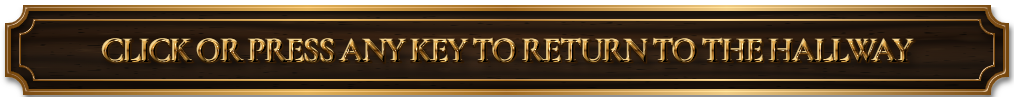
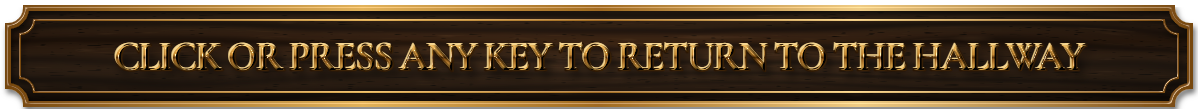
Hallway: the card, mark and plates exported at exactly the sizes they're shown, with 2x copies, so the browser never rescales them (his: lettering looked distorted); the way-out plate's capitals larger; the menu button clear of the card's inner border; changing the time of day by hand crossfades int

diff --git a/assets/hallway/app/play.css b/assets/hallway/app/play.css
@@ -9,11 +9,11 @@ html, body { background: #000; overflow: hidden; }
 /* The controls: nothing but the site's buttons, floating on the hallway */
 /* the controls' wooden card, top left (9 Nov 2026, his): the Hallway's mark at its head, then a labelled row each; the frame and wood as the
    branding mock-ups, dark brown lit from the middle with a thin gold rule inside the edge */
-#playBar { position: fixed; top: 10px; left: 10px; z-index: 30; display: flex; flex-direction: column; gap: 7px; width: 220px; padding: 24px 22px 26px; box-sizing: border-box;
+#playBar { position: fixed; top: 10px; left: 10px; z-index: 30; display: flex; flex-direction: column; gap: 7px; width: 220px; padding: 22px 22px 34px; box-sizing: border-box;
     /* the oak card with its brass borders (assets/img/hallway-card, drawn near this size so its grain isn't stretched), as a 9-slice: its corners stay
        as drawn, the rest fits whatever the card's height comes to */
     border: 1px solid transparent; border-image: url('/assets/img/hallway-card@2x.png') 88 fill / 44px stretch; filter: drop-shadow(0 8px 16px rgba(0, 0, 0, .6)); }
-#playBar .hw-card-logo { display: block; width: 100%; height: auto; margin: -2px 0 2px; pointer-events: none; user-select: none; }
+#playBar .hw-card-logo { display: block; width: 176px; height: auto; margin: -2px 0 2px; pointer-events: none; user-select: none; }
 #playBar .play-row { display: flex; align-items: center; gap: 8px; }
 #playBar .play-label { flex: 0 0 44px; color: #d9ad5e; text-shadow: 0 1px 0 #000; font: 400 9px/14px 'Volter Goldfish', monospace; }
 #playBar .play-row .play-group { flex: 1; }
@@ -29,7 +29,7 @@ html, body { background: #000; overflow: hidden; }
 #playBar .play-group { gap: 1px; }
 /* the splash's own wooden card, the mark alone, above the window */
 #playPicker { flex-direction: column; align-items: center; }
-#playPicker .hw-logo-card { margin: auto 0 10px; width: min(400px, 100%); filter: drop-shadow(0 10px 22px rgba(0, 0, 0, .65)); }
+#playPicker .hw-logo-card { margin: auto 0 10px; width: 420px; max-width: 100%; filter: drop-shadow(0 10px 22px rgba(0, 0, 0, .65)); }
 #playPicker .hw-logo-card img { display: block; width: 100%; height: auto; pointer-events: none; user-select: none; }
 #playPicker .hw-logo-card + .mr-window { margin: 0 auto auto; }
 /* the bar in groups, each a strip of joined buttons (8 Nov 2026) */
@@ -160,9 +160,9 @@ body.hw-screensaver #playBar, body.hw-screensaver .play-menu { opacity: 0; point
 .hw-ss-hint { color: #c9b89a; font: 400 9px/14px 'Volter Goldfish Bold', 'Volter Goldfish', monospace; text-shadow: 1px 1px 0 #1a0d05; transform: scale(2); white-space: nowrap; }
 @media (max-width: 700px) { .hw-ss-title { transform: translate(-50%, -50%); } .hw-ss-name { transform: scale(2); margin: 8px 0 12px; } .hw-ss-hint { transform: none; } }
 /* the screensaver with the Hallway's card (9 Nov 2026, his), and under it the way out on a slim plate made to match */
-.hw-ss-card { display: block; width: min(440px, 62vw); height: auto; margin: 0 0 14px; filter: drop-shadow(0 14px 30px rgba(0, 0, 0, .7)); pointer-events: none; user-select: none; }
-.hw-ss-plate img { display: block; width: min(507px, 80vw); height: auto; filter: drop-shadow(0 8px 16px rgba(0, 0, 0, .65)); pointer-events: none; user-select: none; }
-@media (pointer: coarse) { .hw-ss-plate img { width: min(336px, 80vw); } }
+.hw-ss-card { display: block; width: 420px; max-width: 86vw; height: auto; margin: 0 0 14px; filter: drop-shadow(0 14px 30px rgba(0, 0, 0, .7)); pointer-events: none; user-select: none; }
+.hw-ss-plate img { display: block; width: 599px; max-width: 92vw; height: auto; filter: drop-shadow(0 8px 16px rgba(0, 0, 0, .65)); pointer-events: none; user-select: none; }
+@media (pointer: coarse) { .hw-ss-plate img { width: 393px; } }
 @media (max-width: 700px) { .hw-ss-card { width: min(300px, 80vw); margin-bottom: 10px; } }
 /* hustle's answers: one tidy column of equal buttons */
 .hw-replies.hw-replies-under { flex-direction: column; flex-wrap: nowrap; align-items: stretch; width: max-content; max-width: none; gap: 3px; }

diff --git a/tools/hallway-editor/play.css b/tools/hallway-editor/play.css
@@ -9,11 +9,11 @@ html, body { background: #000; overflow: hidden; }
 /* The controls: nothing but the site's buttons, floating on the hallway */
 /* the controls' wooden card, top left (9 Nov 2026, his): the Hallway's mark at its head, then a labelled row each; the frame and wood as the
    branding mock-ups, dark brown lit from the middle with a thin gold rule inside the edge */
-#playBar { position: fixed; top: 10px; left: 10px; z-index: 30; display: flex; flex-direction: column; gap: 7px; width: 220px; padding: 24px 22px 26px; box-sizing: border-box;
+#playBar { position: fixed; top: 10px; left: 10px; z-index: 30; display: flex; flex-direction: column; gap: 7px; width: 220px; padding: 22px 22px 34px; box-sizing: border-box;
     /* the oak card with its brass borders (assets/img/hallway-card, drawn near this size so its grain isn't stretched), as a 9-slice: its corners stay
        as drawn, the rest fits whatever the card's height comes to */
     border: 1px solid transparent; border-image: url('/assets/img/hallway-card@2x.png') 88 fill / 44px stretch; filter: drop-shadow(0 8px 16px rgba(0, 0, 0, .6)); }
-#playBar .hw-card-logo { display: block; width: 100%; height: auto; margin: -2px 0 2px; pointer-events: none; user-select: none; }
+#playBar .hw-card-logo { display: block; width: 176px; height: auto; margin: -2px 0 2px; pointer-events: none; user-select: none; }
 #playBar .play-row { display: flex; align-items: center; gap: 8px; }
 #playBar .play-label { flex: 0 0 44px; color: #d9ad5e; text-shadow: 0 1px 0 #000; font: 400 9px/14px 'Volter Goldfish', monospace; }
 #playBar .play-row .play-group { flex: 1; }
@@ -29,7 +29,7 @@ html, body { background: #000; overflow: hidden; }
 #playBar .play-group { gap: 1px; }
 /* the splash's own wooden card, the mark alone, above the window */
 #playPicker { flex-direction: column; align-items: center; }
-#playPicker .hw-logo-card { margin: auto 0 10px; width: min(400px, 100%); filter: drop-shadow(0 10px 22px rgba(0, 0, 0, .65)); }
+#playPicker .hw-logo-card { margin: auto 0 10px; width: 420px; max-width: 100%; filter: drop-shadow(0 10px 22px rgba(0, 0, 0, .65)); }
 #playPicker .hw-logo-card img { display: block; width: 100%; height: auto; pointer-events: none; user-select: none; }
 #playPicker .hw-logo-card + .mr-window { margin: 0 auto auto; }
 /* the bar in groups, each a strip of joined buttons (8 Nov 2026) */
@@ -160,9 +160,9 @@ body.hw-screensaver #playBar, body.hw-screensaver .play-menu { opacity: 0; point
 .hw-ss-hint { color: #c9b89a; font: 400 9px/14px 'Volter Goldfish Bold', 'Volter Goldfish', monospace; text-shadow: 1px 1px 0 #1a0d05; transform: scale(2); white-space: nowrap; }
 @media (max-width: 700px) { .hw-ss-title { transform: translate(-50%, -50%); } .hw-ss-name { transform: scale(2); margin: 8px 0 12px; } .hw-ss-hint { transform: none; } }
 /* the screensaver with the Hallway's card (9 Nov 2026, his), and under it the way out on a slim plate made to match */
-.hw-ss-card { display: block; width: min(440px, 62vw); height: auto; margin: 0 0 14px; filter: drop-shadow(0 14px 30px rgba(0, 0, 0, .7)); pointer-events: none; user-select: none; }
-.hw-ss-plate img { display: block; width: min(507px, 80vw); height: auto; filter: drop-shadow(0 8px 16px rgba(0, 0, 0, .65)); pointer-events: none; user-select: none; }
-@media (pointer: coarse) { .hw-ss-plate img { width: min(336px, 80vw); } }
+.hw-ss-card { display: block; width: 420px; max-width: 86vw; height: auto; margin: 0 0 14px; filter: drop-shadow(0 14px 30px rgba(0, 0, 0, .7)); pointer-events: none; user-select: none; }
+.hw-ss-plate img { display: block; width: 599px; max-width: 92vw; height: auto; filter: drop-shadow(0 8px 16px rgba(0, 0, 0, .65)); pointer-events: none; user-select: none; }
+@media (pointer: coarse) { .hw-ss-plate img { width: 393px; } }
 @media (max-width: 700px) { .hw-ss-card { width: min(300px, 80vw); margin-bottom: 10px; } }
 /* hustle's answers: one tidy column of equal buttons */
 .hw-replies.hw-replies-under { flex-direction: column; flex-wrap: nowrap; align-items: stretch; width: max-content; max-width: none; gap: 3px; }

diff --git a/assets/hallway/app/play.js b/assets/hallway/app/play.js
@@ -96,7 +96,7 @@
         /* the Hallway's mark on a wooden card of its own, above the window (9 Nov 2026, his: "in that wooden card thing you had it on in your mock ups") */
         const card = document.createElement("div"); card.className = "hw-logo-card";
         /* the whole card as one picture (his pick, 9 Nov 2026: dark oak, brass borders, the round rat crest, raised brass letters) */
-        const mark = document.createElement("img"); mark.src = "/assets/img/hallway-plaque@2x.png"; mark.alt = "Maze Rats Hallway"; mark.width = 560; mark.height = 330; mark.addEventListener("error", () => card.remove()); card.appendChild(mark);
+        const mark = document.createElement("img"); mark.src = "/assets/img/hallway-plaque-420.png"; mark.srcset = "/assets/img/hallway-plaque-420.png 1x, /assets/img/hallway-plaque-420@2x.png 2x"; mark.width = 420; mark.height = 248; mark.alt = "Maze Rats Hallway"; mark.addEventListener("error", () => card.remove()); card.appendChild(mark);
         form.append(row, say, guest, notes); frame.appendChild(form); win.append(tbar, frame); back.append(card, win); document.body.appendChild(back); input.focus();
         const done = () => { document.removeEventListener("keydown", keys, true); back.remove(); if (opener && opener.focus) opener.focus(); if (onDone) onDone(); };
         const keys = e => {
@@ -139,7 +139,7 @@
         /* A wooden card in the top left, the Hallway's mark at its head and a labelled row for each kind of thing (9 Nov 2026, his: "the menu buttons in
            a wooden card in the top left, with the logo text at the top of it ... clear, and maze rats hallway themed") */
         bar.className = "hw-card";
-        { const mark = document.createElement("img"); mark.className = "hw-card-logo"; mark.src = "/assets/img/hallway-logo@2x.png"; mark.alt = "Maze Rats Hallway"; mark.addEventListener("error", () => mark.remove()); bar.appendChild(mark); }
+        { const mark = document.createElement("img"); mark.className = "hw-card-logo"; mark.src = "/assets/img/hallway-logo-176.png"; mark.srcset = "/assets/img/hallway-logo-176.png 1x, /assets/img/hallway-logo-176@2x.png 2x"; mark.width = 176; mark.height = 111; mark.alt = "Maze Rats Hallway"; mark.addEventListener("error", () => mark.remove()); bar.appendChild(mark); }
         let into = bar; const group = (name, label) => { const r = document.createElement("div"); r.className = "play-row"; if (label) { const l = document.createElement("span"); l.className = "play-label"; l.textContent = label; r.appendChild(l); } const g = document.createElement("span"); g.className = "play-group"; g.setAttribute("role", "group"); g.setAttribute("aria-label", name); r.appendChild(g); bar.appendChild(r); into = g; return g; };
         const add = (label, title, fn) => { const b = document.createElement("button"); b.type = "button"; b.className = "mr-btn"; b.textContent = label; b.title = title; b.setAttribute("aria-label", title); b.addEventListener("click", fn); into.appendChild(b); return b; };
         const click = id => { const e = document.getElementById(id); if (e) e.click(); };

diff --git a/tools/hallway-editor/play.js b/tools/hallway-editor/play.js
@@ -96,7 +96,7 @@
         /* the Hallway's mark on a wooden card of its own, above the window (9 Nov 2026, his: "in that wooden card thing you had it on in your mock ups") */
         const card = document.createElement("div"); card.className = "hw-logo-card";
         /* the whole card as one picture (his pick, 9 Nov 2026: dark oak, brass borders, the round rat crest, raised brass letters) */
-        const mark = document.createElement("img"); mark.src = "/assets/img/hallway-plaque@2x.png"; mark.alt = "Maze Rats Hallway"; mark.width = 560; mark.height = 330; mark.addEventListener("error", () => card.remove()); card.appendChild(mark);
+        const mark = document.createElement("img"); mark.src = "/assets/img/hallway-plaque-420.png"; mark.srcset = "/assets/img/hallway-plaque-420.png 1x, /assets/img/hallway-plaque-420@2x.png 2x"; mark.width = 420; mark.height = 248; mark.alt = "Maze Rats Hallway"; mark.addEventListener("error", () => card.remove()); card.appendChild(mark);
         form.append(row, say, guest, notes); frame.appendChild(form); win.append(tbar, frame); back.append(card, win); document.body.appendChild(back); input.focus();
         const done = () => { document.removeEventListener("keydown", keys, true); back.remove(); if (opener && opener.focus) opener.focus(); if (onDone) onDone(); };
         const keys = e => {
@@ -139,7 +139,7 @@
         /* A wooden card in the top left, the Hallway's mark at its head and a labelled row for each kind of thing (9 Nov 2026, his: "the menu buttons in
            a wooden card in the top left, with the logo text at the top of it ... clear, and maze rats hallway themed") */
         bar.className = "hw-card";
-        { const mark = document.createElement("img"); mark.className = "hw-card-logo"; mark.src = "/assets/img/hallway-logo@2x.png"; mark.alt = "Maze Rats Hallway"; mark.addEventListener("error", () => mark.remove()); bar.appendChild(mark); }
+        { const mark = document.createElement("img"); mark.className = "hw-card-logo"; mark.src = "/assets/img/hallway-logo-176.png"; mark.srcset = "/assets/img/hallway-logo-176.png 1x, /assets/img/hallway-logo-176@2x.png 2x"; mark.width = 176; mark.height = 111; mark.alt = "Maze Rats Hallway"; mark.addEventListener("error", () => mark.remove()); bar.appendChild(mark); }
         let into = bar; const group = (name, label) => { const r = document.createElement("div"); r.className = "play-row"; if (label) { const l = document.createElement("span"); l.className = "play-label"; l.textContent = label; r.appendChild(l); } const g = document.createElement("span"); g.className = "play-group"; g.setAttribute("role", "group"); g.setAttribute("aria-label", name); r.appendChild(g); bar.appendChild(r); into = g; return g; };
         const add = (label, title, fn) => { const b = document.createElement("button"); b.type = "button"; b.className = "mr-btn"; b.textContent = label; b.title = title; b.setAttribute("aria-label", title); b.addEventListener("click", fn); into.appendChild(b); return b; };
         const click = id => { const e = document.getElementById(id); if (e) e.click(); };

diff --git a/assets/hallway/app/live-moving.js b/assets/hallway/app/live-moving.js
@@ -128,10 +128,10 @@
         /* the music plays on (8 Nov 2026, his: it should keep playing when the screensaver starts) */
         LIVE.holdCamera(true); document.body.classList.add("hw-screensaver");
         if (!screensaver.title) { const t = screensaver.title = document.createElement("div"); t.className = "hw-ss-title"; t.setAttribute("aria-hidden", "true"); /* the Hallway's own card, and under it the way out on a little brass-edged plate to match (9 Nov 2026, his) */
-            const big = document.createElement("img"), small = document.createElement("div"); big.className = "hw-ss-card"; big.src = "/assets/img/hallway-plaque@2x.png"; big.alt = ""; big.addEventListener("error", () => { const t2 = document.createElement("div"); t2.className = "hw-ss-name"; t2.textContent = "Maze Rats Hallway"; big.replaceWith(t2); });
+            const big = document.createElement("img"), small = document.createElement("div"); big.className = "hw-ss-card"; big.src = "/assets/img/hallway-plaque-420.png"; big.srcset = "/assets/img/hallway-plaque-420.png 1x, /assets/img/hallway-plaque-420@2x.png 2x"; big.width = 420; big.height = 248; big.alt = ""; big.addEventListener("error", () => { const t2 = document.createElement("div"); t2.className = "hw-ss-name"; t2.textContent = "Maze Rats Hallway"; big.replaceWith(t2); });
             /* the way out: a slim plate in the card's own oak, brass and raised brass capitals (9 Nov 2026, his: the pixel lettering looked grim) */
             const tap = matchMedia("(pointer: coarse)").matches, words = tap ? "Tap to return to the Hallway" : "Click or press any key to return to the Hallway";
-            small.className = "hw-ss-plate"; const plate = document.createElement("img"); plate.src = "/assets/img/hallway-plate-" + (tap ? "tap" : "key") + "@2x.png"; plate.alt = words; plate.width = tap ? 336 : 507; plate.height = 50;
+            small.className = "hw-ss-plate"; const plate = document.createElement("img"); const pb = "/assets/img/hallway-plate-" + (tap ? "tap" : "key"); plate.src = pb + ".png"; plate.srcset = pb + ".png 1x, " + pb + "@2x.png 2x"; plate.alt = words; plate.width = tap ? 393 : 599; plate.height = 56;
             plate.addEventListener("error", () => { small.className = "hw-ss-hint"; small.textContent = words; }); small.appendChild(plate); t.append(big, small); (document.getElementById("stage") || document.body).appendChild(t); }
         screensaver.title.classList.remove("on"); void screensaver.title.offsetWidth; screensaver.title.classList.add("on");
         LIVE.wake(); screensaver.raf = requestAnimationFrame(ssTick); return true;

diff --git a/tools/hallway-editor/live-moving.js b/tools/hallway-editor/live-moving.js
@@ -128,10 +128,10 @@
         /* the music plays on (8 Nov 2026, his: it should keep playing when the screensaver starts) */
         LIVE.holdCamera(true); document.body.classList.add("hw-screensaver");
         if (!screensaver.title) { const t = screensaver.title = document.createElement("div"); t.className = "hw-ss-title"; t.setAttribute("aria-hidden", "true"); /* the Hallway's own card, and under it the way out on a little brass-edged plate to match (9 Nov 2026, his) */
-            const big = document.createElement("img"), small = document.createElement("div"); big.className = "hw-ss-card"; big.src = "/assets/img/hallway-plaque@2x.png"; big.alt = ""; big.addEventListener("error", () => { const t2 = document.createElement("div"); t2.className = "hw-ss-name"; t2.textContent = "Maze Rats Hallway"; big.replaceWith(t2); });
+            const big = document.createElement("img"), small = document.createElement("div"); big.className = "hw-ss-card"; big.src = "/assets/img/hallway-plaque-420.png"; big.srcset = "/assets/img/hallway-plaque-420.png 1x, /assets/img/hallway-plaque-420@2x.png 2x"; big.width = 420; big.height = 248; big.alt = ""; big.addEventListener("error", () => { const t2 = document.createElement("div"); t2.className = "hw-ss-name"; t2.textContent = "Maze Rats Hallway"; big.replaceWith(t2); });
             /* the way out: a slim plate in the card's own oak, brass and raised brass capitals (9 Nov 2026, his: the pixel lettering looked grim) */
             const tap = matchMedia("(pointer: coarse)").matches, words = tap ? "Tap to return to the Hallway" : "Click or press any key to return to the Hallway";
-            small.className = "hw-ss-plate"; const plate = document.createElement("img"); plate.src = "/assets/img/hallway-plate-" + (tap ? "tap" : "key") + "@2x.png"; plate.alt = words; plate.width = tap ? 336 : 507; plate.height = 50;
+            small.className = "hw-ss-plate"; const plate = document.createElement("img"); const pb = "/assets/img/hallway-plate-" + (tap ? "tap" : "key"); plate.src = pb + ".png"; plate.srcset = pb + ".png 1x, " + pb + "@2x.png 2x"; plate.alt = words; plate.width = tap ? 393 : 599; plate.height = 56;
             plate.addEventListener("error", () => { small.className = "hw-ss-hint"; small.textContent = words; }); small.appendChild(plate); t.append(big, small); (document.getElementById("stage") || document.body).appendChild(t); }
         screensaver.title.classList.remove("on"); void screensaver.title.offsetWidth; screensaver.title.classList.add("on");
         LIVE.wake(); screensaver.raf = requestAnimationFrame(ssTick); return true;

diff --git a/js/hallway.js b/js/hallway.js
@@ -55,7 +55,7 @@
 
     /* The site's own window (the same classes as every other, so it wears every palette, dark mode and skin) */
     /* the Hallway's own mark (9 Nov 2026, his pick "G3": script Maze Rats tucked into a gold HALLWAY), on its loader and closed screens */
-    const logo = () => { const i = document.createElement("img"); i.className = "hallway-logo"; i.src = "/assets/img/hallway-logo@2x.png"; i.alt = "Maze Rats Hallway"; i.decoding = "async"; i.addEventListener("error", () => i.remove()); return i; };
+    const logo = (w = 240) => { const i = document.createElement("img"); i.className = "hallway-logo"; i.src = "/assets/img/hallway-logo-" + w + ".png"; i.srcset = "/assets/img/hallway-logo-" + w + ".png 1x, /assets/img/hallway-logo-" + w + "@2x.png 2x"; i.width = w; i.height = w === 420 ? 266 : 152; i.alt = "Maze Rats Hallway"; i.decoding = "async"; i.addEventListener("error", () => i.remove()); return i; };
     function note(title, words) {
         const n = document.createElement("div"); n.className = "modal hallway-note"; n.setAttribute("role", "status");
         const bar = document.createElement("div"); bar.className = "chrome-titlebar";
@@ -123,7 +123,7 @@
            wordmark over the maze, the label in Volter, and the bar that fills in whole blocks (home.html's .site-loader, its classes reused) */
         const load = document.createElement("div"); load.className = "hallway-loader";
         const box = document.createElement("div"); box.className = "site-loader-inner";
-        const mark = logo(); mark.classList.add("hallway-logo-loader");        // the Hallway's mark where the site's wordmark would be
+        const mark = logo(420); mark.classList.add("hallway-logo-loader");        // the Hallway's mark where the site's wordmark would be
         const words = document.createElement("p"); words.className = "site-loader-label"; words.setAttribute("role", "status"); words.textContent = "LOADING THE HALLWAY";
         const bar = document.createElement("div"); bar.className = "site-loader-track"; const fill = document.createElement("div"); fill.className = "site-loader-fill"; bar.appendChild(fill);
         /* in whole 8px blocks, never half a block, as the site's bar */

diff --git a/assets/hallway/app/editor.js b/assets/hallway/app/editor.js
@@ -3624,7 +3624,16 @@ function buildUI() {
     });
     $("floorSel").addEventListener("change", e => setFloor(byId(e.target.value)));
     $("timeMode").value = timeMode;
-    $("timeMode").addEventListener("change", e => { timeMode = e.target.value; localStorage.setItem("hallway-time", timeMode); paint(); });
+    /* Changing the time of day by hand crossfades into the new light rather than jumping (9 Nov 2026, his): the view as it was is laid over
+       the top and faded away once the new light's pictures for what's on screen are in (or after a second and a half at most) */
+    $("timeMode").addEventListener("change", e => {
+        const stage = $("stage"), old = canvas.width && stage ? document.createElement("canvas") : null;
+        if (old) { old.width = canvas.width; old.height = canvas.height; old.getContext("2d").drawImage(canvas, 0, 0); old.style.cssText = "position:absolute;left:" + canvas.offsetLeft + "px;top:" + canvas.offsetTop + "px;z-index:24;pointer-events:none;opacity:1;transition:opacity .9s ease;width:" + canvas.clientWidth + "px;height:" + canvas.clientHeight + "px"; stage.appendChild(old); }
+        timeMode = e.target.value; localStorage.setItem("hallway-time", timeMode); paint();
+        if (!old) return; const t0 = performance.now();
+        const fade = () => { if (moodInflight.size && performance.now() - t0 < 1500) { setTimeout(fade, 60); return; } paint(); old.getBoundingClientRect(); old.style.opacity = 0; setTimeout(() => old.remove(), 950); };
+        setTimeout(fade, 60);
+    });
     $("light").addEventListener("change", e => { snapshot(); map.light = e.target.value; changed(); });
     $("wallPaint").addEventListener("change", e => { wallPaint = e.target.checked; if (!wallPaint && selected && selected.type === "wall") select(null); flash(wallPaint ? "Click a wall to change it." : "Walls can't be clicked now."); });
     $("sortMazes").addEventListener("click", sortByDifficulty);

diff --git a/tools/hallway-editor/editor.js b/tools/hallway-editor/editor.js
@@ -3624,7 +3624,16 @@ function buildUI() {
     });
     $("floorSel").addEventListener("change", e => setFloor(byId(e.target.value)));
     $("timeMode").value = timeMode;
-    $("timeMode").addEventListener("change", e => { timeMode = e.target.value; localStorage.setItem("hallway-time", timeMode); paint(); });
+    /* Changing the time of day by hand crossfades into the new light rather than jumping (9 Nov 2026, his): the view as it was is laid over
+       the top and faded away once the new light's pictures for what's on screen are in (or after a second and a half at most) */
+    $("timeMode").addEventListener("change", e => {
+        const stage = $("stage"), old = canvas.width && stage ? document.createElement("canvas") : null;
+        if (old) { old.width = canvas.width; old.height = canvas.height; old.getContext("2d").drawImage(canvas, 0, 0); old.style.cssText = "position:absolute;left:" + canvas.offsetLeft + "px;top:" + canvas.offsetTop + "px;z-index:24;pointer-events:none;opacity:1;transition:opacity .9s ease;width:" + canvas.clientWidth + "px;height:" + canvas.clientHeight + "px"; stage.appendChild(old); }
+        timeMode = e.target.value; localStorage.setItem("hallway-time", timeMode); paint();
+        if (!old) return; const t0 = performance.now();
+        const fade = () => { if (moodInflight.size && performance.now() - t0 < 1500) { setTimeout(fade, 60); return; } paint(); old.getBoundingClientRect(); old.style.opacity = 0; setTimeout(() => old.remove(), 950); };
+        setTimeout(fade, 60);
+    });
     $("light").addEventListener("change", e => { snapshot(); map.light = e.target.value; changed(); });
     $("wallPaint").addEventListener("change", e => { wallPaint = e.target.checked; if (!wallPaint && selected && selected.type === "wall") select(null); flash(wallPaint ? "Click a wall to change it." : "Walls can't be clicked now."); });
     $("sortMazes").addEventListener("click", sortByDifficulty);

diff --git a/css/hallway.css b/css/hallway.css
@@ -113,8 +113,8 @@ html.hallway-instant #hallway-stage { transition: none; }
 /* the fan-site statement at the foot of a closed screen: below an engraved rule, in a muted brown, so it doesn't pull the eye from the note (9 Nov 2026, his) */
 .hallway-note-body .hallway-note-legal { align-self: stretch; margin-top: 2px; padding-top: 10px; border-top: 1px solid rgba(0, 0, 0, .55); box-shadow: inset 0 1px 0 rgba(255, 220, 160, .12); color: var(--parchment-mid, #c7a679); opacity: .9; text-align: center; }
 /* the Hallway's mark (9 Nov 2026): over a closed screen's note, and in place of the wordmark on the loader */
-.hallway-logo { display: block; width: min(240px, 80%); height: auto; margin: -4px auto -6px; pointer-events: none; user-select: none; }
-.hallway-logo-loader { width: min(420px, 78vw); margin: 0 auto 6px; }
+.hallway-logo { display: block; width: 240px; max-width: 100%; height: auto; margin: -4px auto -6px; pointer-events: none; user-select: none; }
+.hallway-logo-loader { width: 420px; max-width: 86vw; margin: 0 auto 6px; }
 /* the note itself a sentence to a line (9 Nov 2026, his) */
 .hallway-note-body .hallway-note-words { white-space: pre-line; }
 
